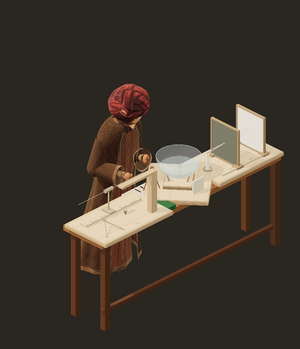
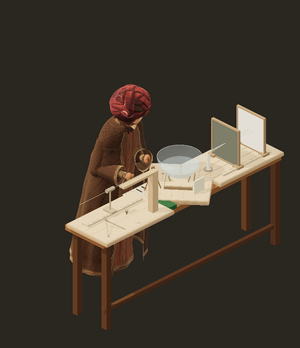
Ibn al-Haytham's cloak drapes wide over his arms, as in the turnaround
Claude-Session: https://claude.ai/code/session_01QsGb9hcDKqL5Q4XWvrw6Z3

diff --git a/tools/haytham/figure.js b/tools/haytham/figure.js
@@ -412,27 +412,36 @@ export function buildFigure(T, image) {
     const Y0 = 0.2,
       Y1 = 4.04;
     const gap = table([
-      [0.2, 0.42],
-      [1.5, 0.36],
-      [2.9, 0.27],
+      [0.2, 0.5],
+      [1.5, 0.42],
+      [2.9, 0.3],
       [3.6, 0.2],
       [3.9, 0.12],
       [4.04, 0.12],
     ]);
     const B = 0.1; // the embroidered border's width
+    const drape = table([
+      [0.2, 0.36],
+      [1.2, 0.4],
+      [2.2, 0.38],
+      [3.0, 0.25],
+      [3.5, 0.1],
+      [3.56, 0.08],
+    ]);
     add(
       'body',
       surface(260, 250, (u, v) => {
         const y = Y0 + (Y1 - Y0) * v,
           yr = Math.min(y, 3.56);
-        const extra = 0.07 + 0.14 * smooth(2.8, 0.2, y);
+        // A great drape: over the arms at the chest, widest at the hips.
+        const extra = drape(y);
         const rx = shoulder(y, 3.56, Y1, robeRx(yr) + extra, 0.2),
-          rz = shoulder(y, 3.56, Y1, robeRz(yr) + extra, 0.19);
+          rz = shoulder(y, 3.56, Y1, robeRz(yr) + 0.75 * extra, 0.19);
         const th0 = Math.asin(clamp(gap(y) / rx, 0, 0.99));
         const th = th0 + u * (2 * Math.PI - 2 * th0);
         // Deep folds, deepest at the back and towards the hem.
         const amp =
-          (0.035 + 0.05 * Math.max(0, -Math.cos(th))) * smooth(3.5, 0.4, y);
+          (0.04 + 0.07 * Math.max(0, -Math.cos(th))) * smooth(3.5, 0.6, y);
         const wave =
           Math.sin(th * 7 + 0.7 * Math.sin(y * 1.4)) * 0.6 +
           Math.sin(th * 12 + 2.1 + 0.4 * y) * 0.4;

diff --git a/DECISIONS.md b/DECISIONS.md
@@ -293,7 +293,7 @@
     - **Ibn al-Haytham:** behind his bench where the model's own bench stood, at (21.5, 101.96). The beam passes just behind him, and his gaze turns toward the screen in its new place.
     - **Content:** the location and its sources (`SOURCE-LINKS.json`) are the owner's. It is an imagined chamber, not a historical site, and carries no writing or symbols.
 77. Ibn al-Haytham's figure, remodelled in 3D after the owner's character turnaround (owner's request, 2026-11, with the turnaround image: "keep the face real and reflect like real in 3D"; it is `assets/scholar-turnaround.png` of `Ibn-al-Haytham-Character-Collection`). It replaces the coarse voxel scholar of items 71 and 72:
-    - **The figure** (`tools/haytham/figure.js`) is modelled in three.js with the turnaround's proportions (about 195 of its pixels to a model unit, soles at its y = 1000 in every view). It has a great wrapped turban over a dark cap, a long beard, a heavy open cloak over a rust robe with a cream collar and cuffs, leather shoes, and the green Book of Optics in his card picture.
+    - **The figure** (`tools/haytham/figure.js`) is modelled in three.js with the turnaround's proportions (about 195 of its pixels to a model unit, soles at its y = 1000 in every view). It has a great wrapped turban over a dark cap, a long beard, a heavy open cloak draped wide over the arms and a rust robe with a cream collar and cuffs, leather shoes, and the green Book of Optics in his card picture.
     - **Real face:** the head, beard and turban carry the turnaround's own painting, projected from its three views:
       - the front view (his head turned 24° to his right in it) for the face;
       - the profile for the sides and ears;
